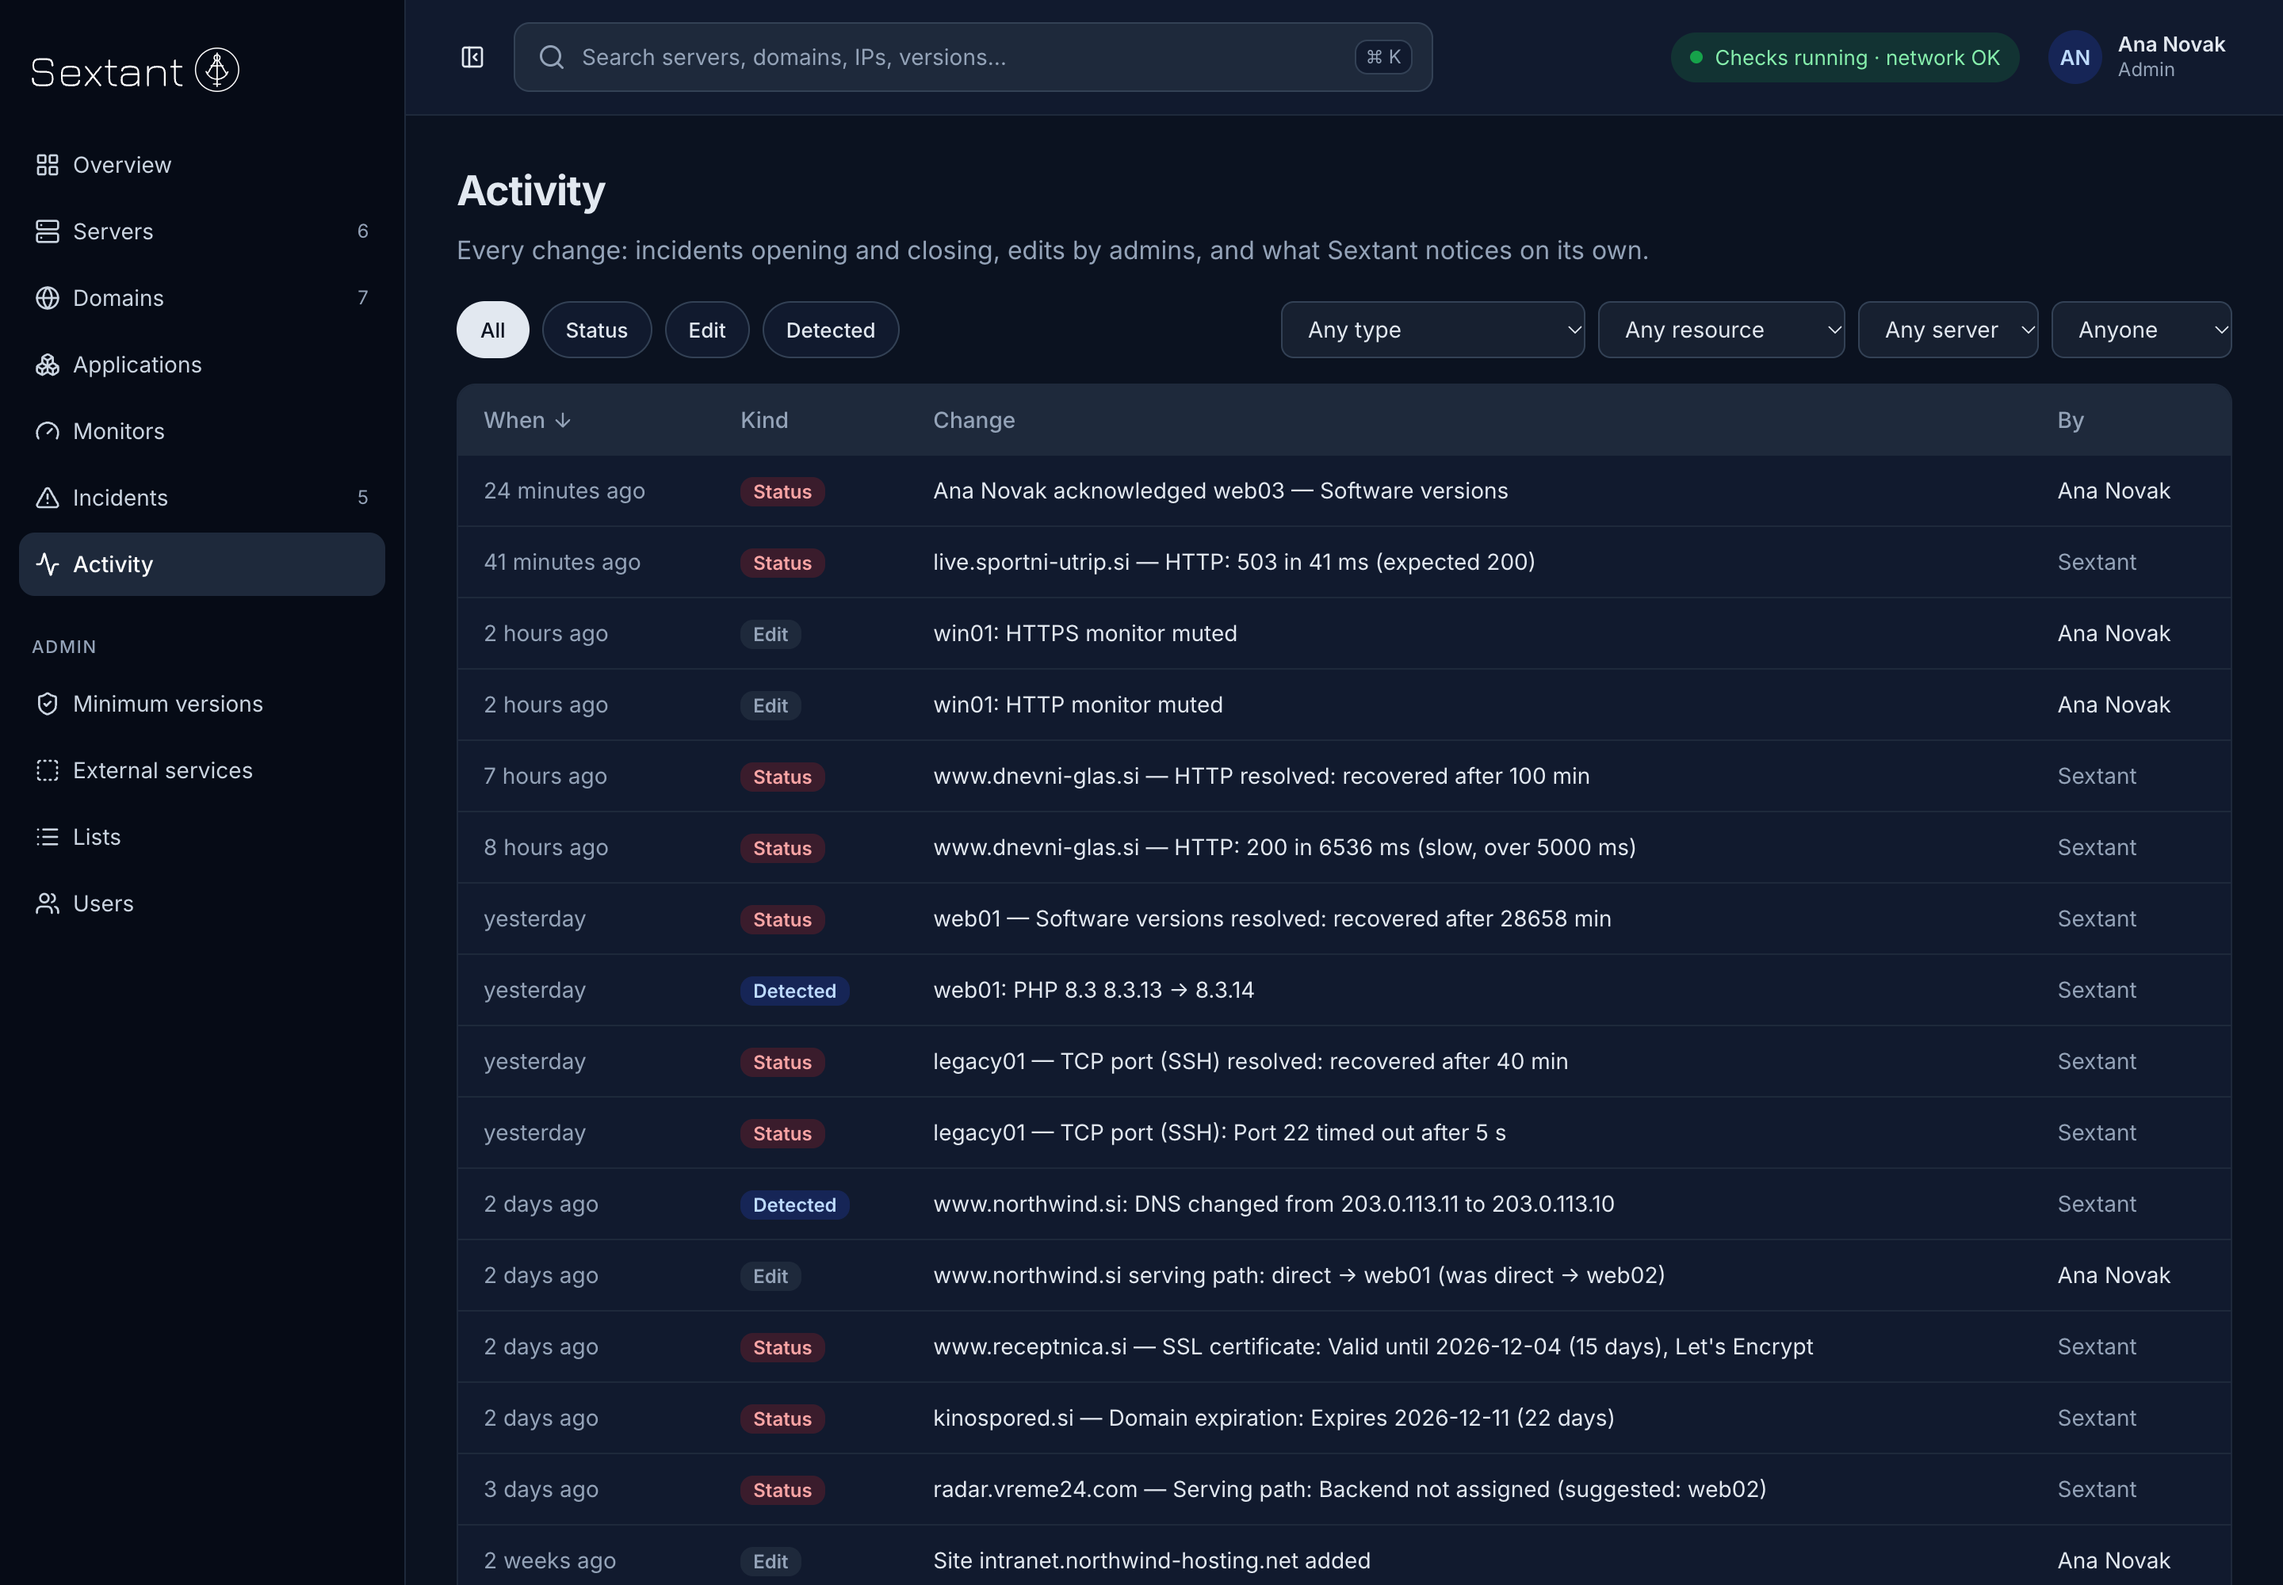
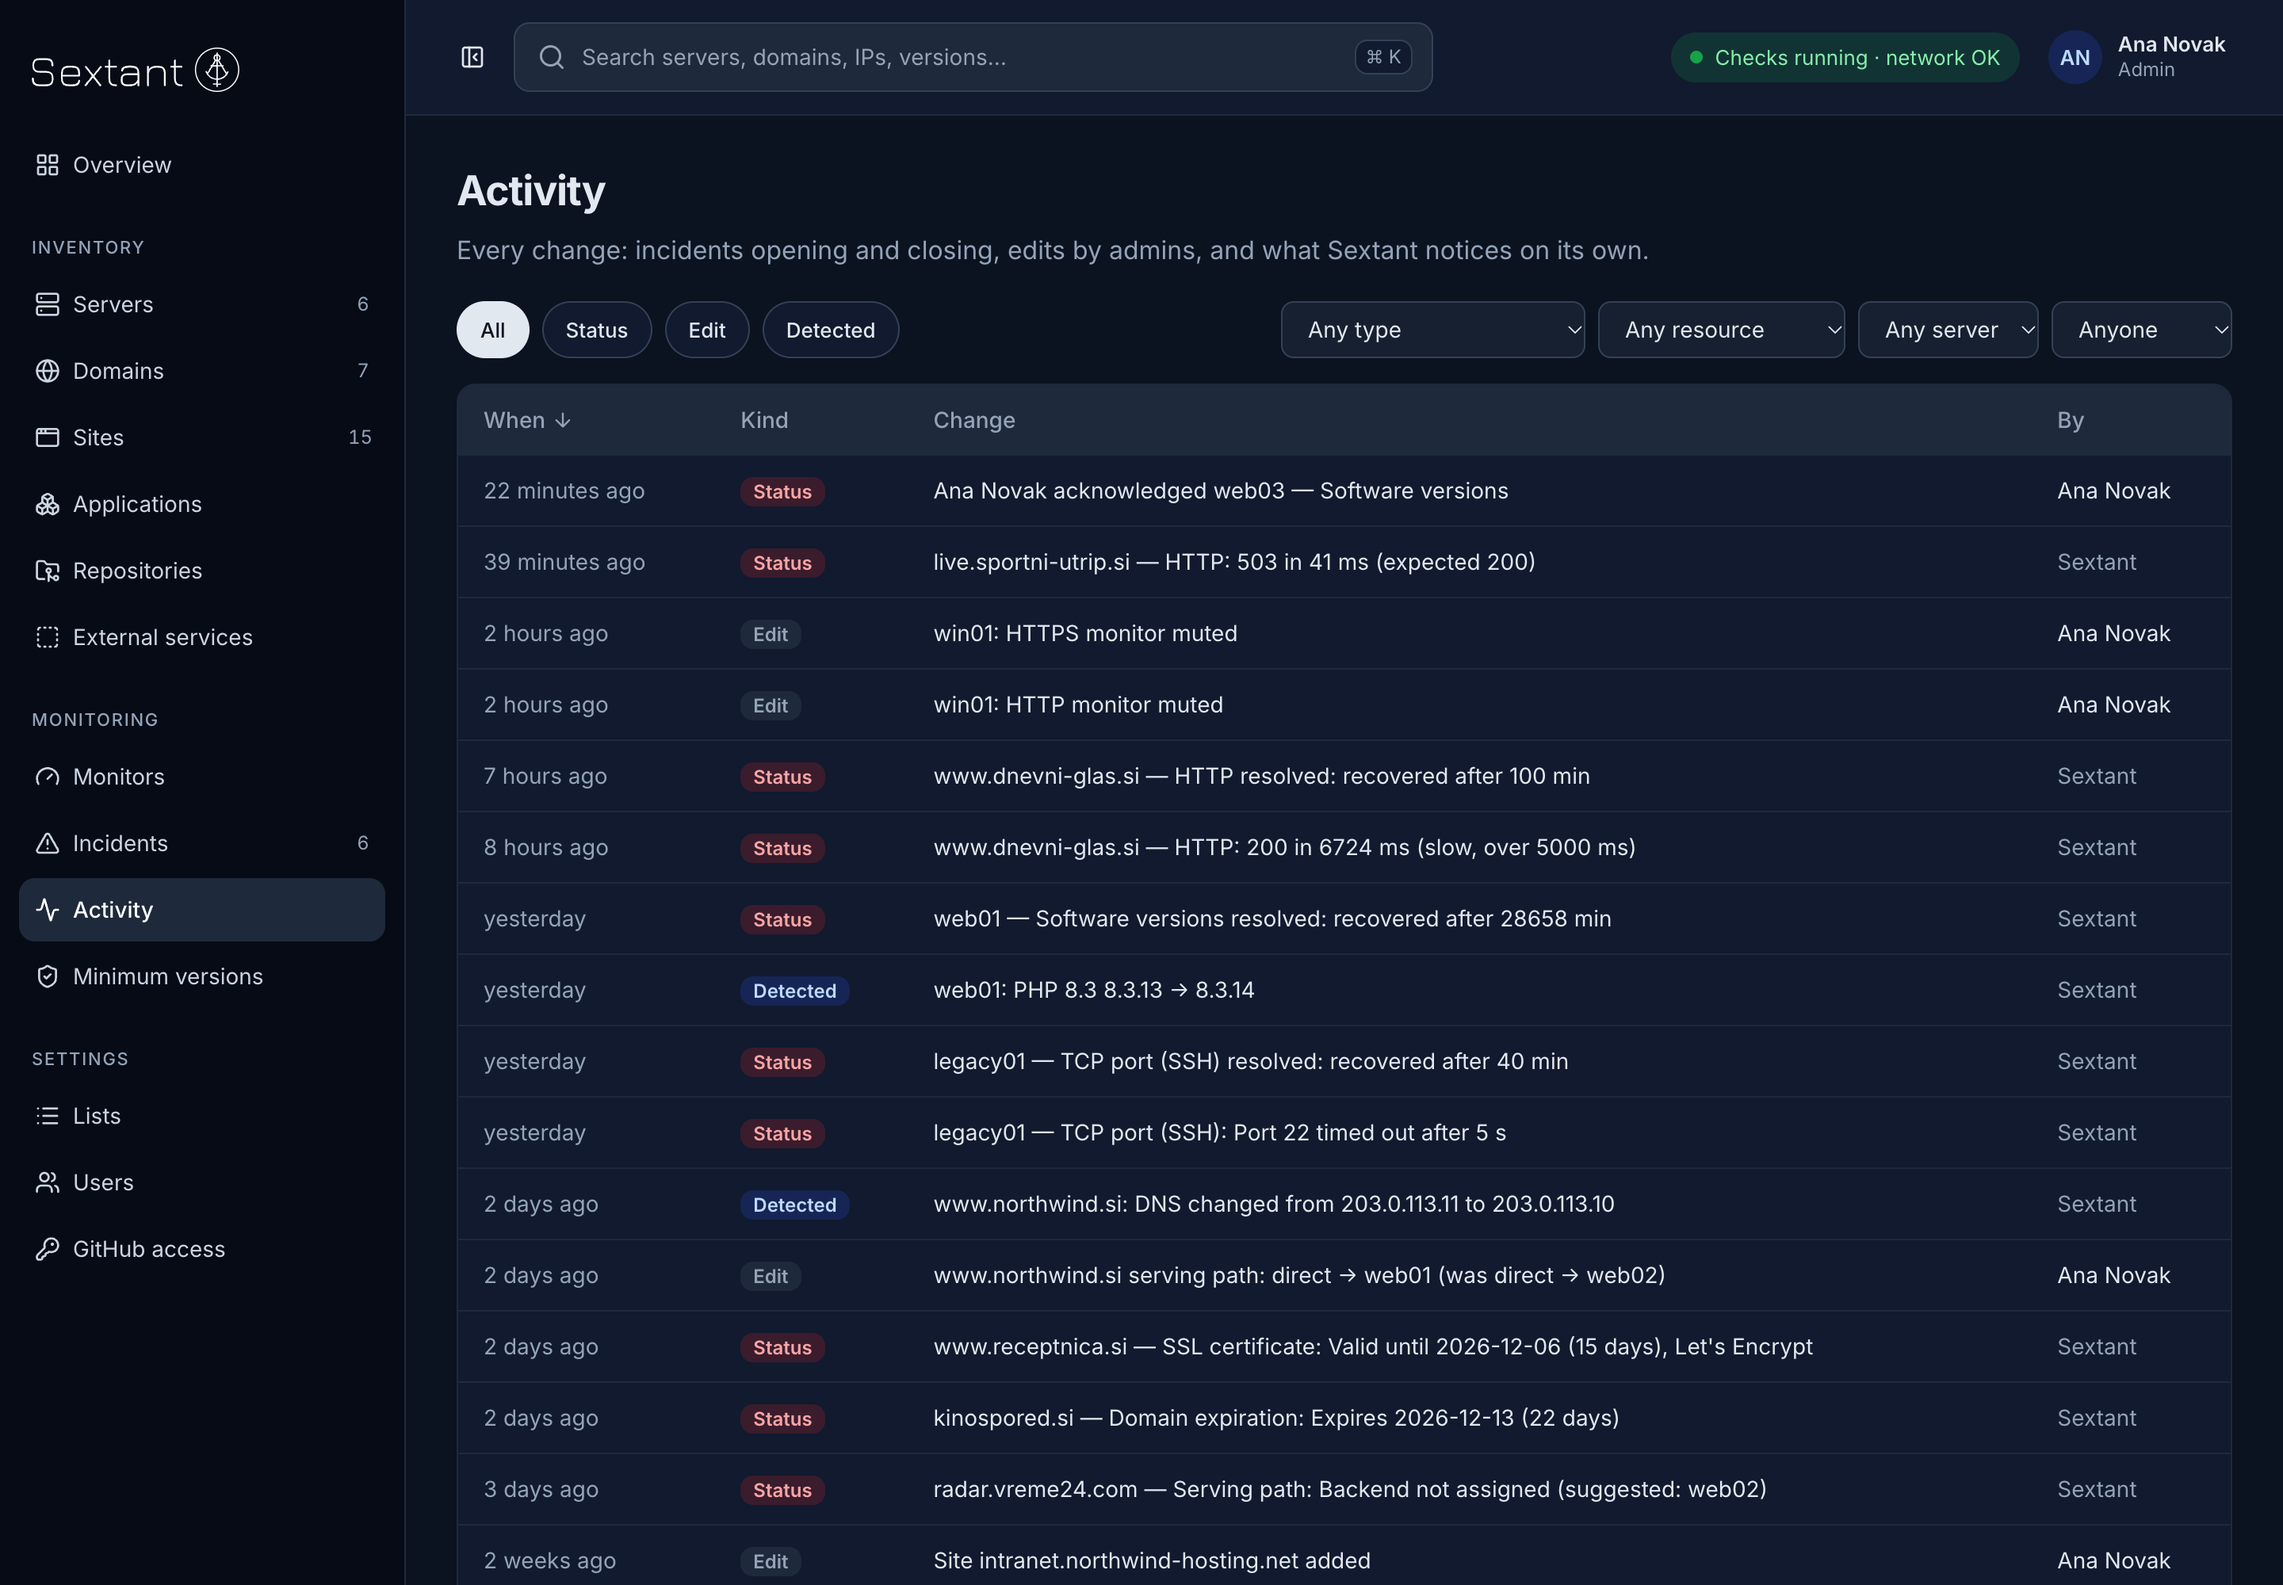
docs(readme): retake screenshots for the new design
Re-seeded the demo with current collectors (v5) and no IPv6 address on
web01, so Overview doesn't nag about outdated collectors. The Domains shot
again opens dnevni-glas.si and sportni-utrip.si; the Server caption now
mentions what fails with it.

diff --git a/database/seeders/DemoSeeder.php b/database/seeders/DemoSeeder.php
@@ -67,12 +67,12 @@ class DemoSeeder extends Seeder
      * @var array<string, array<string, mixed>>
      */
     private const SERVERS = [
-        'web01' => ['ip' => '203.0.113.10', 'ipv6' => '2001:db8:10::1', 'provider' => 'Hetzner', 'os' => 'Ubuntu 24.04 LTS', 'ports' => [22, 80, 443], 'ping' => true, 'nginx' => '1.26.3', 'php' => ['8.3' => '8.3.14', '8.4' => '8.4.2'], 'mysql' => null, 'kernel' => '6.8.0-51-generic', 'pretty' => 'Ubuntu 24.04.1 LTS', 'collector' => 4],
-        'web02' => ['ip' => '203.0.113.11', 'ipv6' => null, 'provider' => 'Hetzner', 'os' => 'Ubuntu 24.04 LTS', 'ports' => [22, 80, 443], 'ping' => true, 'nginx' => '1.26.3', 'php' => ['8.3' => '8.3.14'], 'mysql' => null, 'kernel' => '6.8.0-51-generic', 'pretty' => 'Ubuntu 24.04.1 LTS', 'collector' => 4],
-        'web03' => ['ip' => '198.51.100.20', 'ipv6' => null, 'provider' => 'Arnes', 'os' => 'Ubuntu 22.04 LTS', 'ports' => [22, 80, 443], 'ping' => true, 'nginx' => '1.24.0', 'php' => ['8.2' => '8.2.26', '8.1' => '8.1.31'], 'mysql' => null, 'kernel' => '5.15.0-126-generic', 'pretty' => 'Ubuntu 22.04.5 LTS', 'collector' => 4],
-        'db01' => ['ip' => '203.0.113.30', 'ipv6' => null, 'provider' => 'Hetzner', 'os' => 'Debian 12', 'ports' => [22], 'ping' => true, 'nginx' => null, 'php' => [], 'mysql' => '8.4.3', 'kernel' => '6.1.0-28-amd64', 'pretty' => 'Debian GNU/Linux 12 (bookworm)', 'collector' => 4],
-        'legacy01' => ['ip' => '192.0.2.40', 'ipv6' => null, 'provider' => 'DigitalOcean', 'os' => 'Ubuntu 22.04 LTS', 'ports' => [22, 80, 443], 'ping' => true, 'nginx' => '1.26.2', 'php' => ['7.4' => '7.4.33'], 'mysql' => '8.0.40', 'kernel' => '5.15.0-122-generic', 'pretty' => 'Ubuntu 22.04.5 LTS', 'collector' => 3],
-        'win01' => ['ip' => '198.51.100.50', 'ipv6' => null, 'provider' => null, 'os' => 'Windows Server 2022', 'ports' => [80, 443], 'ping' => false, 'nginx' => null, 'php' => [], 'mysql' => null, 'kernel' => null, 'pretty' => null, 'collector' => null],
+        'web01' => ['ip' => '203.0.113.10', 'provider' => 'Hetzner', 'os' => 'Ubuntu 24.04 LTS', 'ports' => [22, 80, 443], 'ping' => true, 'nginx' => '1.26.3', 'php' => ['8.3' => '8.3.14', '8.4' => '8.4.2'], 'mysql' => null, 'kernel' => '6.8.0-51-generic', 'pretty' => 'Ubuntu 24.04.1 LTS', 'collector' => 5],
+        'web02' => ['ip' => '203.0.113.11', 'provider' => 'Hetzner', 'os' => 'Ubuntu 24.04 LTS', 'ports' => [22, 80, 443], 'ping' => true, 'nginx' => '1.26.3', 'php' => ['8.3' => '8.3.14'], 'mysql' => null, 'kernel' => '6.8.0-51-generic', 'pretty' => 'Ubuntu 24.04.1 LTS', 'collector' => 5],
+        'web03' => ['ip' => '198.51.100.20', 'provider' => 'Arnes', 'os' => 'Ubuntu 22.04 LTS', 'ports' => [22, 80, 443], 'ping' => true, 'nginx' => '1.24.0', 'php' => ['8.2' => '8.2.26', '8.1' => '8.1.31'], 'mysql' => null, 'kernel' => '5.15.0-126-generic', 'pretty' => 'Ubuntu 22.04.5 LTS', 'collector' => 5],
+        'db01' => ['ip' => '203.0.113.30', 'provider' => 'Hetzner', 'os' => 'Debian 12', 'ports' => [22], 'ping' => true, 'nginx' => null, 'php' => [], 'mysql' => '8.4.3', 'kernel' => '6.1.0-28-amd64', 'pretty' => 'Debian GNU/Linux 12 (bookworm)', 'collector' => 5],
+        'legacy01' => ['ip' => '192.0.2.40', 'provider' => 'DigitalOcean', 'os' => 'Ubuntu 22.04 LTS', 'ports' => [22, 80, 443], 'ping' => true, 'nginx' => '1.26.2', 'php' => ['7.4' => '7.4.33'], 'mysql' => '8.0.40', 'kernel' => '5.15.0-122-generic', 'pretty' => 'Ubuntu 22.04.5 LTS', 'collector' => 3],
+        'win01' => ['ip' => '198.51.100.50', 'provider' => null, 'os' => 'Windows Server 2022', 'ports' => [80, 443], 'ping' => false, 'nginx' => null, 'php' => [], 'mysql' => null, 'kernel' => null, 'pretty' => null, 'collector' => null],
     ];
 
     /**
@@ -185,10 +185,6 @@ class DemoSeeder extends Seeder
                 },
             ]);
             $server->addresses()->create(['ip' => $spec['ip'], 'is_primary' => true]);
-
-            if ($spec['ipv6'] !== null) {
-                $server->addresses()->create(['ip' => $spec['ipv6'], 'is_primary' => false]);
-            }
 
             if ($spec['collector'] !== null) {
                 $server->forceFill([

diff --git a/README.md b/README.md
@@ -17,7 +17,7 @@ Fictional demo data (`database/seeders/DemoSeeder.php`), light and dark.
 | ![Overview, light](docs/screenshots/overview-light.png)                 | ![Overview, dark](docs/screenshots/overview-dark.png) |
 | **Domains**: every subdomain and how it's served                        |                                                       |
 | ![Domains, light](docs/screenshots/domains-light.png)                   | ![Domains, dark](docs/screenshots/domains-dark.png)   |
-| **Server**: traffic into it, sites it serves, software versions         |                                                       |
+| **Server**: traffic in, what fails with it, sites, software versions    |                                                       |
 | ![Server, light](docs/screenshots/server-light.png)                     | ![Server, dark](docs/screenshots/server-dark.png)     |
 | **Site**: serving path, monitors, incidents                             |                                                       |
 | ![Site, light](docs/screenshots/site-light.png)                         | ![Site, dark](docs/screenshots/site-dark.png)         |
